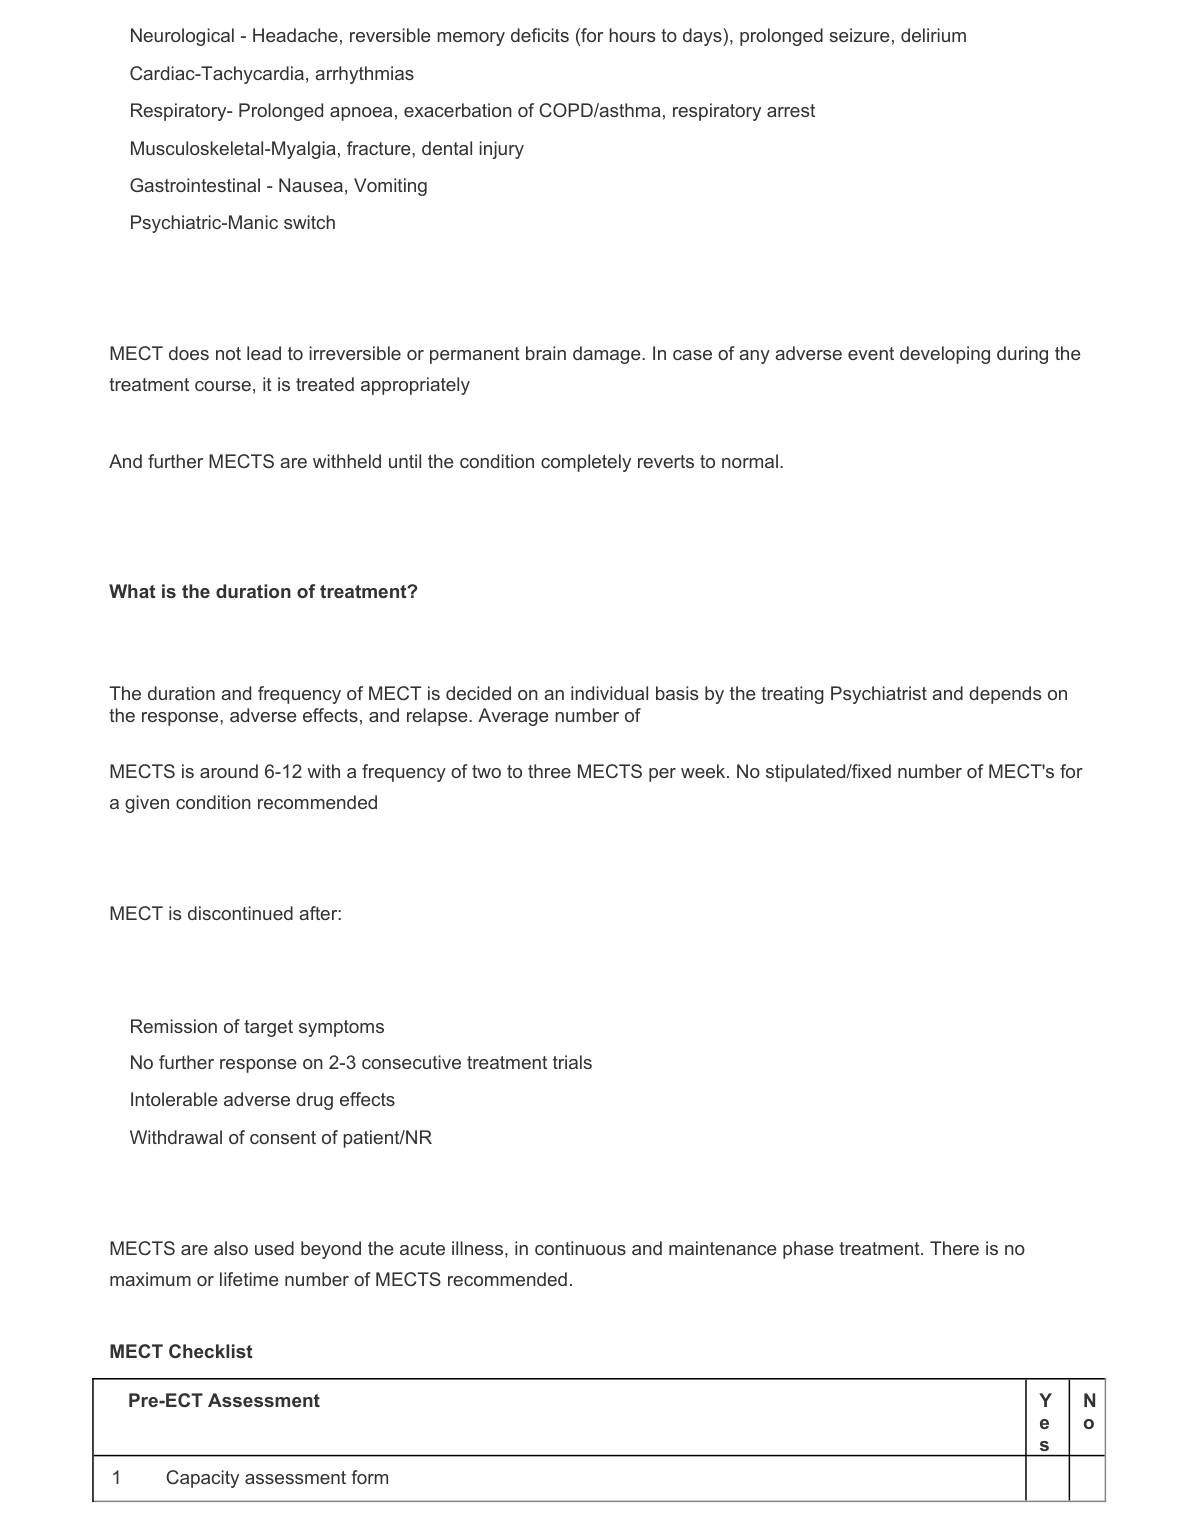
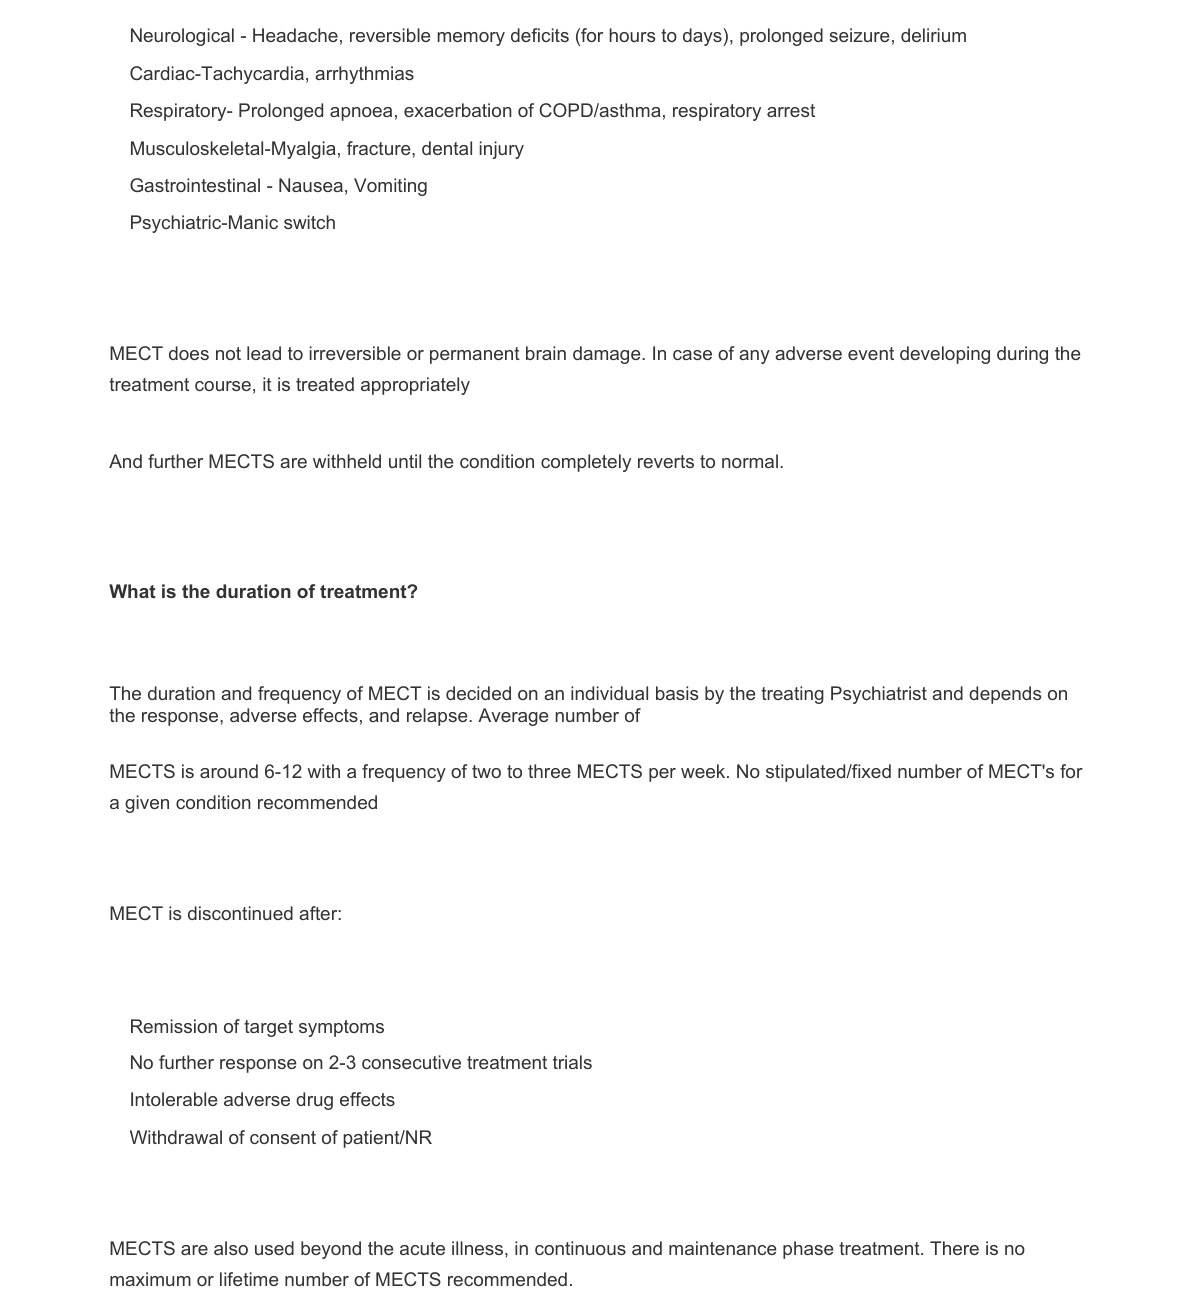
MECT form: checklist as one on-screen table, information sheet folded (block 196)

diff --git a/public/legacy/js/196-forms-reformat-24nov-js.js b/public/legacy/js/196-forms-reformat-24nov-js.js
@@ -1,0 +1,74 @@
+/* 196 · 24 Nov meeting: consent forms reformatted one by one.
+   MECT form (mect-final): the information sheet (pages 1 to 4) is folded behind "Show information sheet";
+   the MECT checklist is no longer split over pages 4 and 5 of the scanned form (192 cuts it out of the images),
+   it is one on-screen table with Yes / No buttons and the MMSE score. Saved in the same form record
+   (`m196<part><row>` = 'y' or 'n', MMSE in `p5f1`); answers from the old on-image boxes are still read. */
+(function(){
+  const MECT='mect-final';
+  const ROWS={
+    pre:['Capacity assessment form','Admission consent form signed by patient / NR for IPD patient',
+      'MECT education material with consent form signed by patient / NR and two psychiatrists',
+      'Anaesthesia consent form signed by patient / NR and one family member (legal guardian)',
+      'PAC and pre MECT work-up (routine and special tests, ECG, fundus examination) checked by RMO','MMSE score'],
+    peri:['Session 1','Session 2','Session 3','Session 4','Session 5'],
+    post:['Vitals','Response monitoring, clinically (behaviour and psychopathology) and objective rating scale','Cognitive deficits, clinical and MMSE']};
+  const HEAD={pre:'Pre-ECT assessment',peri:'Peri-MECT assessment',post:'Post-MECT assessment'};
+  const OLD={peri:'Peri-MECT',post:'Post-MECT'};
+  const esc=s=>String(s==null?'':s).replace(/[&<>"]/g,c=>({'&':'&amp;','<':'&lt;','>':'&gt;','"':'&quot;'}[c]));
+  const isMect=()=>String((typeof S!=='undefined'&&S.cdEntryKey)||'').split('|')[1]===MECT;
+  const vals=()=>{try{return isMect()?cdfVals(S.cdEntryKey):{};}catch(e){return {};}};
+  const get=(v,p,i)=>{const k='m196'+p+(i+1);if(v[k])return v[k];const o=OLD[p];if(o){if(v['m24'+o+i+'y'])return 'y';if(v['m24'+o+i+'n'])return 'n';}return '';};
+  function html(ed){
+    const v=vals();let done=0,all=0;
+    const body=Object.keys(ROWS).map(p=>`<tr class="m196-h"><th colspan="2">${HEAD[p]}${p==='peri'?'<small>Seizure threshold checked by the administering person; any events filled in a separate form</small>':''}</th><th>Yes</th><th>No</th></tr>`
+      +ROWS[p].map((t,i)=>{const a=get(v,p,i);all++;if(a)done++;
+        const b=(x,l)=>`<button type="button" class="m196-b${a===x?' on '+x:''}"${ed?` onclick="m196Set('${p}',${i},'${x}')"`:' disabled'} aria-pressed="${a===x}">${l}</button>`;
+        const mm=p==='pre'&&i===5?` <input class="m196-mm" type="text" inputmode="numeric" placeholder="Score /30" value="${esc(v.p5f1||'')}"${ed?` oninput="cdfSet('p5f1',this.value,null)"`:' disabled'}>`:'';
+        return `<tr><td class="n">${i+1}</td><td>${esc(t)}${mm}</td><td>${b('y','Yes')}</td><td>${b('n','No')}</td></tr>`;}).join('')).join('');
+    return `<div class="m196-top"><b>MECT checklist</b><span>Filled by the doctor · ${done} of ${all} answered</span></div><table class="m196-t">${body}</table>`;
+  }
+  window.m196Set=function(p,i,x){if(!isMect())return;const v=vals(),k='m196'+p+(i+1);cdfSet(k,get(v,p,i)===x?'':x,null);
+    document.querySelectorAll('.m196-ck').forEach(el=>{el.innerHTML=html(el.dataset.ed==='1');});};
+
+  const css=document.createElement('style');
+  css.textContent='.m196-ck{background:#fff;border:1px solid #d0d5dd;border-radius:10px;padding:14px 16px;margin:0 auto 12px;box-sizing:border-box}'
+    +'.m196-top{display:flex;justify-content:space-between;align-items:baseline;gap:12px;margin-bottom:8px}.m196-top b{font-size:15px}.m196-top span{font-size:12.5px;color:#667085}'
+    +'.m196-t{width:100%;border-collapse:collapse;font-size:13.5px}.m196-t td,.m196-t th{border-bottom:1px solid #eaecf0;padding:7px 8px;text-align:left;vertical-align:middle}'
+    +'.m196-t td.n{width:22px;color:#667085}.m196-t td:nth-child(3),.m196-t td:nth-child(4),.m196-h th:nth-child(2),.m196-h th:nth-child(3){width:62px;text-align:center}'
+    +'.m196-h th{background:#f2f4f7;font-weight:700;color:#101828}.m196-h th small{display:block;font-weight:400;color:#475467;font-size:12px;margin-top:2px}'
+    +'.m196-b{border:1px solid #d0d5dd;background:#fff;border-radius:6px;padding:4px 10px;font:inherit;font-size:12.5px;cursor:pointer;min-width:46px}'
+    +'.m196-b.on.y{background:#dcfae6;border-color:#47cd89;color:#067647;font-weight:700}.m196-b.on.n{background:#fee4e2;border-color:#f97066;color:#b42318;font-weight:700}.m196-b:disabled{cursor:default}'
+    +'.m196-mm{margin-left:10px;width:96px;padding:4px 8px;border:1px solid #d0d5dd;border-radius:6px;font:inherit;font-size:13px}'
+    +'.m196-fb{display:flex;justify-content:space-between;align-items:center;gap:12px;background:#f8f9fc;border:1px solid #d0d5dd;border-radius:10px;padding:10px 14px;margin:0 auto 12px;box-sizing:border-box;font-size:13.5px}'
+    +'.m196-fb button{border:1px solid #d0d5dd;background:#fff;border-radius:6px;padding:5px 12px;font:inherit;cursor:pointer}'
+    +'.m196-fold.m196-shut{display:none!important}'
+    +'@media print{.m196-fold.m196-shut{display:block!important}.m24-mh.m196-fold.m196-shut{display:flex!important}.m196-fb{display:none}.m196-b:not(.on){opacity:.5}}';
+  document.head.appendChild(css);
+
+  const pageOf=img=>+((img.getAttribute('src')||'').match(/p(\d+)\.png/)||[])[1];
+  function fix(){
+    const imgs=[...document.querySelectorAll('.cdf-page>img[src*="forms/mect-final/p"]')];if(!imgs.length)return;
+    const boxes=new Set(imgs.map(i=>i.parentElement.parentNode));
+    boxes.forEach(box=>{
+      const pages=[...box.children].filter(c=>c.classList.contains('cdf-page')&&c.querySelector('img[src*="forms/mect-final/p"]'));
+      const p1=pages.find(pg=>pageOf(pg.querySelector('img'))===1),p5=pages.find(pg=>pageOf(pg.querySelector('img'))===5);
+      const w=(p1||pages[0]).style.width||'';
+      const ed=!!box.querySelector('.cdf-f:not(.cdf-ro)')&&isMect();
+      /* fold pages 1 to 4 */
+      const open=box.dataset.m196open==='1';
+      pages.forEach(pg=>{const n=pageOf(pg.querySelector('img'));if(n>=1&&n<=4){const els=[pg];const h=pg.previousElementSibling;if(h&&h.classList.contains('m24-mh'))els.push(h);
+        els.forEach(e=>{e.classList.add('m196-fold');e.classList.toggle('m196-shut',!open);});}});
+      if(p1&&!box.querySelector(':scope>.m196-fb')){const fb=document.createElement('div');fb.className='m196-fb';fb.style.width=w;
+        const h=p1.previousElementSibling&&p1.previousElementSibling.classList.contains('m24-mh')?p1.previousElementSibling:p1;
+        fb.innerHTML='<span><b>Information sheet</b> · pages 1 to 4, read only, for the patient and family</span><button type="button">'+(open?'Hide':'Show')+' information sheet</button>';
+        fb.querySelector('button').onclick=()=>{box.dataset.m196open=box.dataset.m196open==='1'?'0':'1';fix();fb.querySelector('button').textContent=(box.dataset.m196open==='1'?'Hide':'Show')+' information sheet';};
+        box.insertBefore(fb,h);}
+      /* the checklist, before the anaesthesia consent */
+      if(p5&&!box.querySelector(':scope>.m196-ck')){const ck=document.createElement('div');ck.className='m196-ck';ck.style.width=w;ck.dataset.ed=ed?'1':'0';ck.innerHTML=html(ed);
+        const h=p5.previousElementSibling&&p5.previousElementSibling.classList.contains('m24-mh')?p5.previousElementSibling:p5;box.insertBefore(ck,h);}
+    });
+  }
+  let q=0;const later=()=>{if(!q)q=requestAnimationFrame(()=>{q=0;try{fix();}catch(e){}});};
+  try{new MutationObserver(later).observe(document.body,{childList:true,subtree:true});}catch(e){}
+  later();
+})();

diff --git a/public/legacy/js/192-meeting-24nov-js.js b/public/legacy/js/192-meeting-24nov-js.js
@@ -193,25 +193,19 @@
 
   /* ---------- 8. MECT form ---------- */
   const MECT='mect-final';
-  const CROP={1:[41.5,760.7],2:[18,747.7],3:[18,783.7],4:[55.5,766.2],5:[14,806.2],6:[18,38.5],7:[18,780.2],8:[18,814.2],9:[18,794.2],10:[18,426.9]};
+  const CROP={1:[41.5,760.7],2:[18,747.7],3:[18,783.7],4:[55.5,654.8],5:[563.8,256.4],6:[18,38.5],7:[18,780.2],8:[18,814.2],9:[18,794.2],10:[18,426.9]};
   const SEC={1:['info','Information sheet','Read only, for the patient and family'],2:['info','Information sheet','Read only'],3:['info','Information sheet','Read only'],
-    4:['doc','Information sheet, then the MECT checklist','Checklist filled by the doctor'],5:['doc','MECT checklist (doctor), then the anaesthesia consent','Anaesthesia part filled by the anaesthetist'],
+    4:['info','Information sheet','Read only'],5:['an','Anaesthesia consent','Filled by the anaesthetist'],
 7:['an','Anaesthesia consent, then the MECT informed consent','Consent filled by the doctor with the patient or NR'],
     8:['doc','MECT informed consent','Doctor with the patient or NR'],9:['doc',"Doctor's statement, then the Pre-MECT check-up",'Check-up filled by the RMO'],10:['rmo','Pre-MECT check-up','Filled by the RMO or nurse']};
   try{const F=CDF_FORMS[MECT];
     if(F&&!F.m24){F.m24=1;
       const DROP=/^(p1f\d+|p2f\d+|p3f\d+|p4f\d+|p5f[2-8]|p7f(14|26|27)|p8f([2-9]|1[0-4]|2[23])|p9f([1-6]|12))$/;
-      F.pages.forEach((pg,i)=>{const n=i+1,c=CROP[n];if(!c)return;
-        pg.fields=pg.fields.filter(f=>!DROP.test(f.id)&&!(n===10&&/^(Investigations|Pre MECT direction)$/i.test(String(f.label||'').trim())));
+      F.pages.forEach((pg,i)=>{const n=i+1,c=CROP[n];if(!c)return;if(n===4||n===5)pg.img=pg.img.split('?')[0]+'?v=196';
+        pg.fields=pg.fields.filter(f=>!DROP.test(f.id)&&!(n===5&&f.id==='p5f1')&&!(n===10&&/^(Investigations|Pre MECT direction)$/i.test(String(f.label||'').trim())));
         pg.fields.forEach(f=>{f.y=+(f.y-c[0]).toFixed(1);(f.opts||[]).forEach(o=>{o.y=+(o.y-c[0]).toFixed(1);});if(f.id==='p9f13')f.label='UHID';});
         pg.h=c[1];});
-      /* Yes / No boxes of the checklist (rows measured on the page images, in points before the crop) */
-      const yn=(n,rows,pre)=>{const pg=F.pages[n-1],t=CROP[n][0];rows.forEach((r,j)=>{const y=+(r[0]+2-t).toFixed(1),h=+(r[1]-r[0]-4).toFixed(1);
-        pg.fields.push({kind:'check',id:'m24'+pre+j+'y',x:514,y,w:19,h,label:pre+' row '+(j+1)+': Yes'},{kind:'check',id:'m24'+pre+j+'n',x:536,y,w:15,h,label:pre+' row '+(j+1)+': No'});});};
-      yn(4,[[783,806]],'Pre-ECT');
-      yn(5,[[61,84],[84,107],[107,129],[129,152]],'Pre-ECT');
-      yn(5,[[215,254],[254,293],[293,332],[332,370],[370,409]],'Peri-MECT');
-      yn(5,[[475,498],[498,521],[521,544]],'Post-MECT');
+      /* 24 Nov: the checklist table is cut out of pages 4 and 5; block 196 shows it as one on-screen table */
     }}catch(e){}
   /* who last filled each page of the MECT form */
   const pageOf=fid=>{try{const F=CDF_FORMS[MECT];for(let i=0;i<F.pages.length;i++)if(F.pages[i].fields.some(f=>f.id===fid))return i+1;}catch(e){}return 0;};

diff --git a/src/legacy/scripts.ts b/src/legacy/scripts.ts
@@ -194,4 +194,5 @@ export const LEGACY_SCRIPTS: string[] = [
   '/legacy/js/193-alerts-split-24nov-js.js',
   '/legacy/js/194-therapy-plans-redesign-24nov-js.js',
   '/legacy/js/195-signature-center-24nov-js.js',
+  '/legacy/js/196-forms-reformat-24nov-js.js',
 ];
